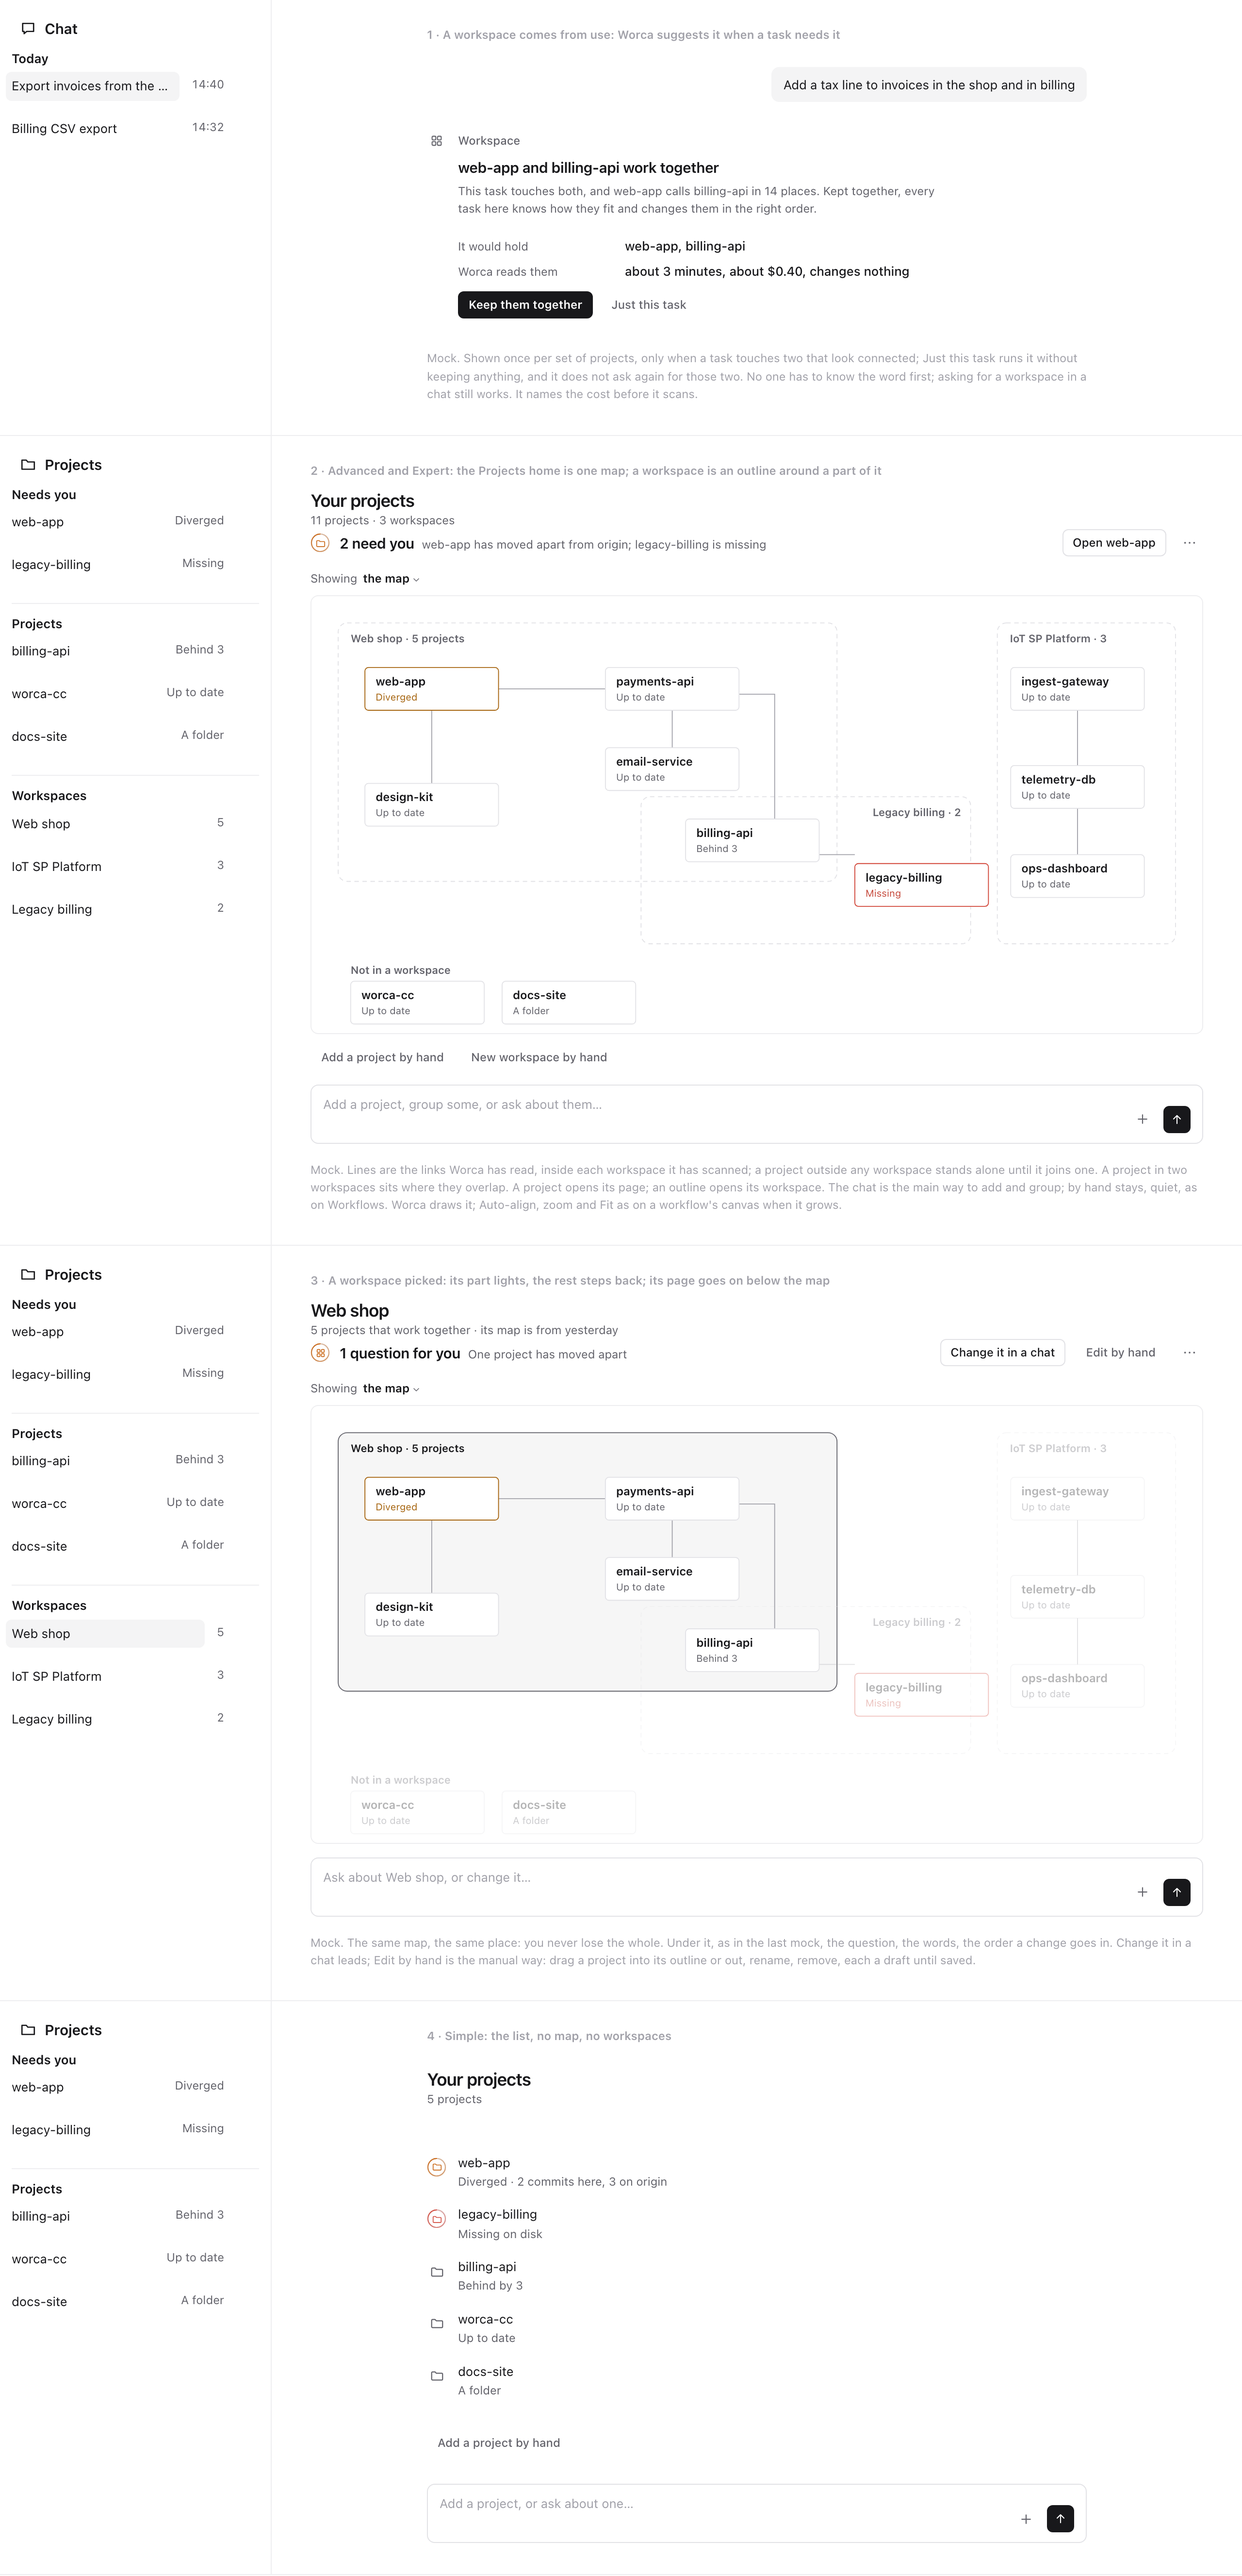
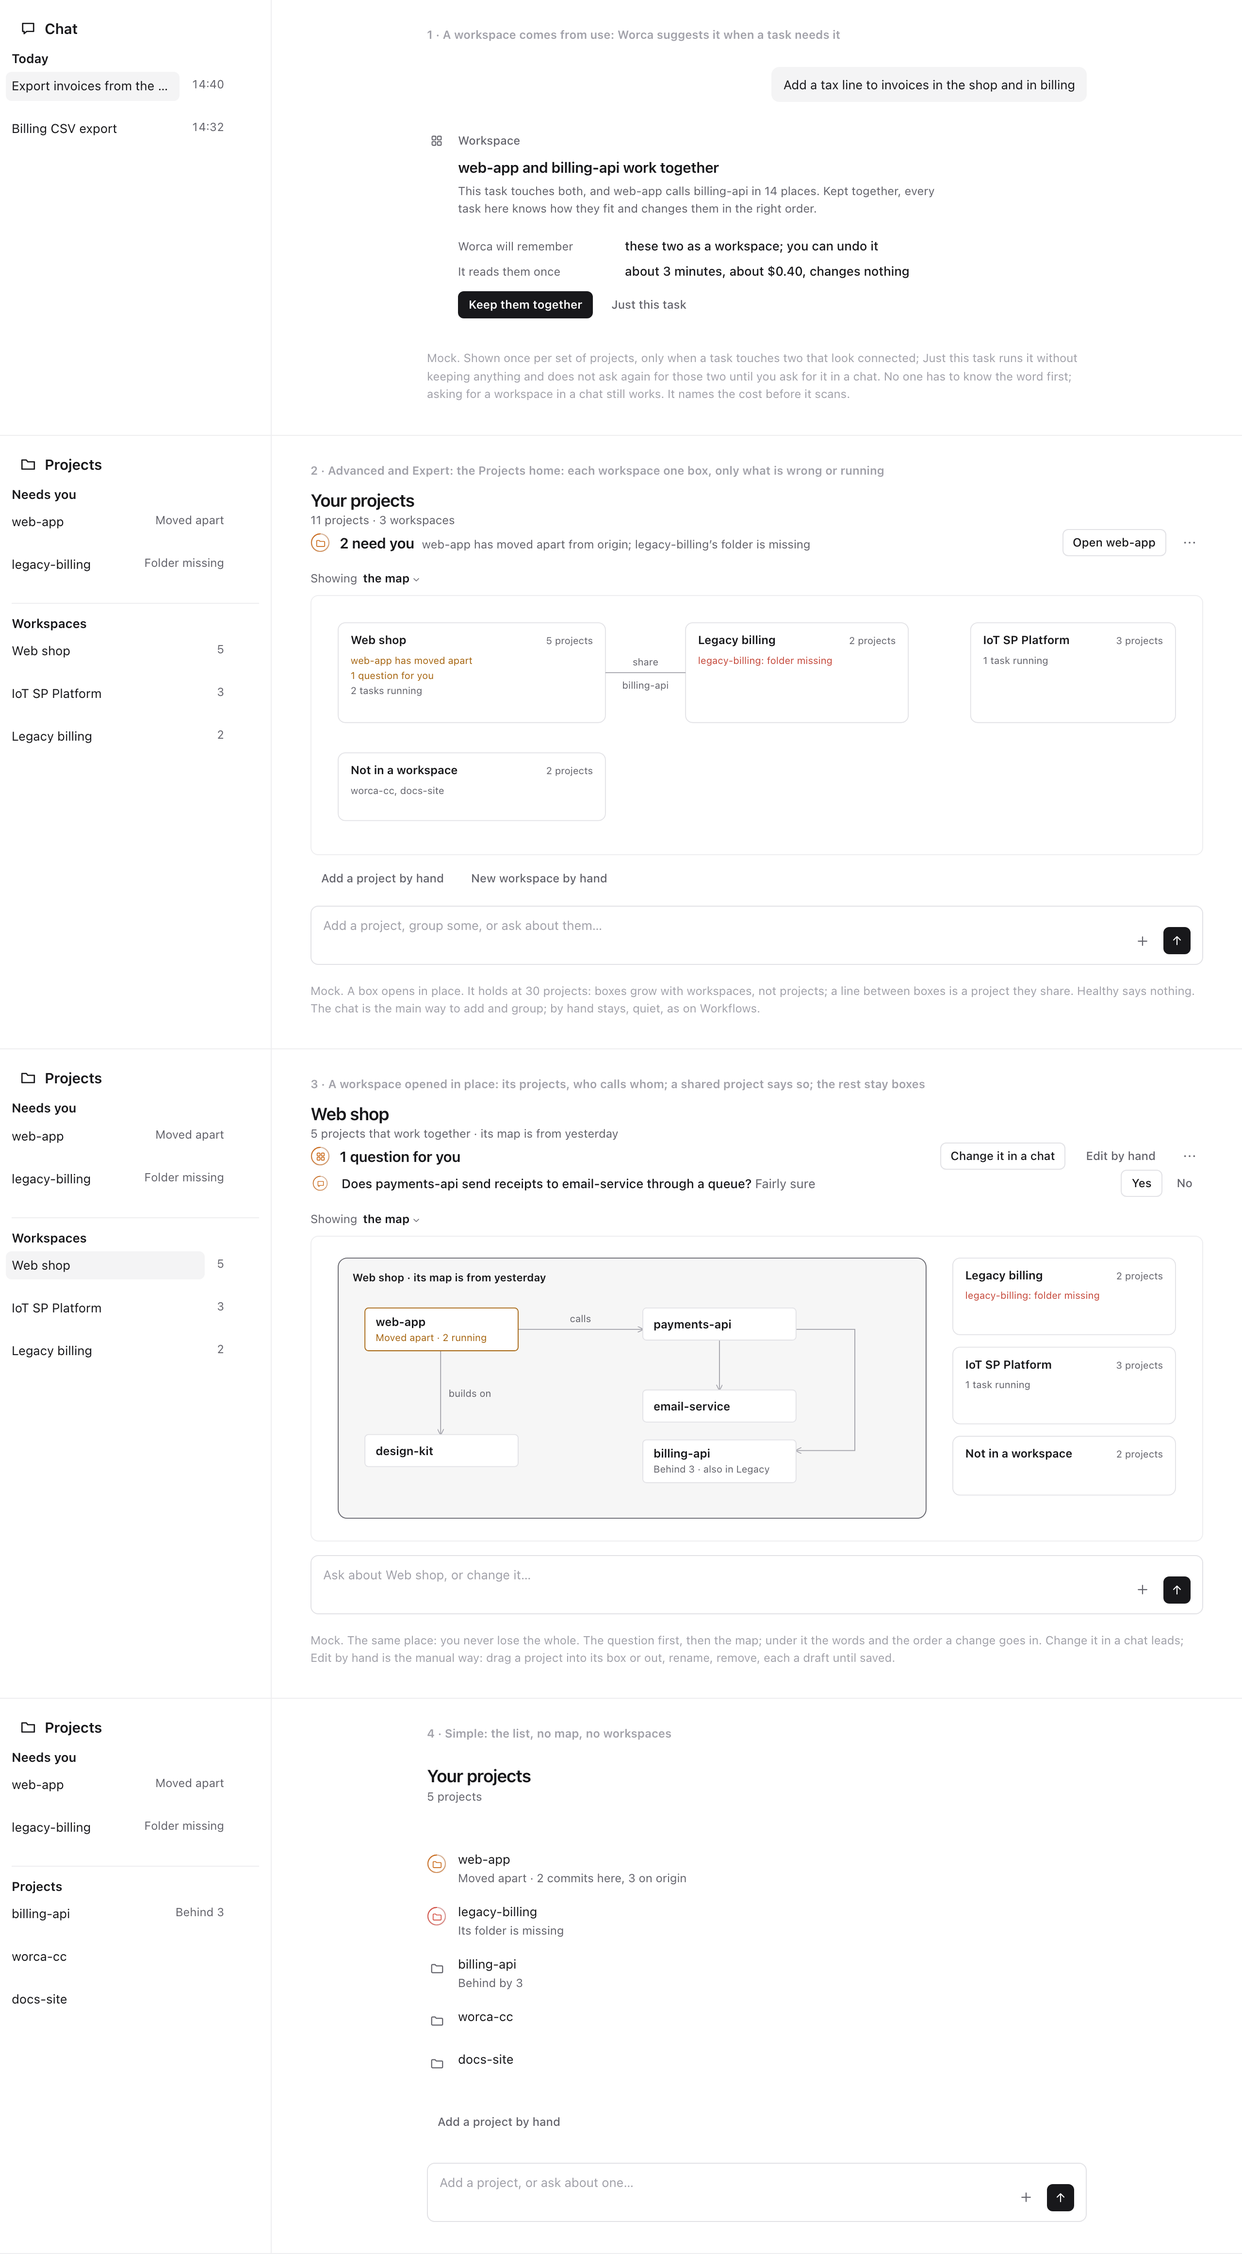
Wave 3: the Projects home after both personas: each workspace one box that opens in place, a shared project says so, healthy says nothing; plainer status words

diff --git a/plans/rail/mocks/wave-3/scope-2.html b/plans/rail/mocks/wave-3/scope-2.html
@@ -28,7 +28,7 @@
   .w{fill:none;stroke:var(--ink-3);}
   .o{fill:none;stroke:var(--line-2);stroke-dasharray:5 4;} .on{fill:color-mix(in srgb,var(--ink) 4%,transparent);stroke:var(--ink-2);stroke-dasharray:none;}
   .ol{font-size:12px;font-weight:600;fill:var(--ink-2)!important;} .ol.pick{fill:var(--ink)!important;}
-  .dim{opacity:.32;}
+  .on-closed{stroke-dasharray:none;} .l-t{font-size:11px;fill:var(--ink-2)!important;}
 </style></head>
 <body><div id="m"></div>
 <script src="../../prototype/components.js"></script>
@@ -37,36 +37,39 @@
   const pj = (tone) => R.kindMark({ kind: 'project', tone: tone || 'idle' }), ws = (tone) => R.kindMark({ kind: 'workspace', tone: tone || 'idle' });
   const row = (title, mark, end, cur = false) => R.listRow({ title, mark, endText: end, open: { 'data-x': title }, current: cur });
   const bar = (cur, adv = true) => `<h1>${R.icon('nav-projects', 18)} Projects</h1>${R.list({ groups: [
-    { title: 'Needs you', rows: [row('web-app', pj('ask'), 'Diverged'), row('legacy-billing', pj('fail'), 'Missing')] },
-    { title: 'Projects', rows: [row('billing-api', pj(), 'Behind 3'), row('worca-cc', pj(), 'Up to date'), row('docs-site', pj(), 'A folder')] },
-    ...(adv ? [{ title: 'Workspaces', rows: [row('Web shop', ws(), '5', cur === 'web'), row('IoT SP Platform', ws(), '3'), row('Legacy billing', ws(), '2')] }] : [])] })}`;
+    { title: 'Needs you', rows: [row('web-app', pj('ask'), 'Moved apart'), row('legacy-billing', pj('fail'), 'Folder missing')] },
+    ...(adv ? [{ title: 'Workspaces', rows: [row('Web shop', ws(), '5', cur === 'web'), row('IoT SP Platform', ws(), '3'), row('Legacy billing', ws(), '2')] }, { title: 'All projects · 11', rows: [] }] : [{ title: 'Projects', rows: [row('billing-api', pj(), 'Behind 3'), row('worca-cc', pj(), ''), row('docs-site', pj(), '')] }])] })}`;
   const chatBar = `<h1>${R.icon('nav-chat', 18)} Chat</h1>${R.list({ groups: [{ title: 'Today', rows: [row('Export invoices from the shop', R.kindMark({ kind: 'chat' }), '14:40', true), row('Billing CSV export', R.kindMark({ kind: 'chat', tone: 'ask' }), '14:32')] }] })}`;
   const pick = (t) => R.sentencePicker({ id: t, text: t, items: [], chevron: R.icon('chevron', 10) });
   const you = (t) => `<div style="display:flex;justify-content:flex-end;margin:0 0 14px"><div style="background:var(--field);border-radius:var(--r-md);padding:8px 12px">${t}</div></div>`;
-  const suggest = R.changeProposal({ kind: 'Workspace', title: 'web-app and billing-api work together', why: 'This task touches both, and web-app calls billing-api in 14 places. Kept together, every task here knows how they fit and changes them in the right order.', rows: [{ name: 'It would hold', before: '', after: 'web-app, billing-api' }, { name: 'Worca reads them', before: '', after: 'about 3 minutes, about $0.40, changes nothing' }], actions: [{ label: 'Keep them together', kind: 'primary' }, { label: 'Just this task', kind: 'quiet' }] });
+  const suggest = R.changeProposal({ kind: 'Workspace', title: 'web-app and billing-api work together', why: 'This task touches both, and web-app calls billing-api in 14 places. Kept together, every task here knows how they fit and changes them in the right order.', rows: [{ name: 'Worca will remember', before: '', after: 'these two as a workspace; you can undo it' }, { name: 'It reads them once', before: '', after: 'about 3 minutes, about $0.40, changes nothing' }], actions: [{ label: 'Keep them together', kind: 'primary' }, { label: 'Just this task', kind: 'quiet' }] });
   const f1 = `<div class="col convo-col" style="margin:0"><p class="cap">1 · A workspace comes from use: Worca suggests it when a task needs it</p>${you('Add a tax line to invoices in the shop and in billing')}${suggest}
-    <p class="note">Mock. Shown once per set of projects, only when a task touches two that look connected; Just this task runs it without keeping anything, and it does not ask again for those two. No one has to know the word first; asking for a workspace in a chat still works. It names the cost before it scans.</p></div>`;
-  const node = (x, y, t, s, tone = '', cls = '') => `<g class="${cls}"><rect class="n ${tone}" x="${x}" y="${y}" width="150" height="48" rx="4"/><text class="t" x="${x + 12}" y="${y + 20}">${t}</text><text class="s ${tone}" x="${x + 12}" y="${y + 37}">${s}</text></g>`;
-  const line = (d, cls = '') => `<path class="w ${cls}" d="${d}"/>`;
-  const outline = (x, y, w, h, name, on, cls = '') => `<rect class="o ${on ? 'on' : ''} ${cls}" x="${x}" y="${y}" width="${w}" height="${h}" rx="10"/><text class="ol ${on ? 'pick' : ''} ${cls}" x="${name.startsWith('Legacy') ? x + w - 110 : x + 14}" y="${y + 22}">${name}</text>`;
-  const mapOf = (pickWeb) => { const d = pickWeb ? 'dim' : '';
-    return `<div class="map"><svg viewBox="0 0 1000 490" role="img" aria-label="Your projects and how they fit together">
-      ${outline(30, 30, 560, 290, 'Web shop · 5 projects', pickWeb)}${outline(370, 225, 370, 165, 'Legacy billing · 2', false, d)}${outline(770, 30, 200, 360, 'IoT SP Platform · 3', false, d)}
-      ${line('M210 104H330')}${line('M405 128V170')}${line('M135 128V210')}${line('M480 110H520V250')}${line('M610 290H570', d)}${line('M860 128V190', d)}${line('M860 290V238', d)}
-      ${node(60, 80, 'web-app', 'Diverged', 'ask')}${node(330, 80, 'payments-api', 'Up to date')}${node(330, 170, 'email-service', 'Up to date')}${node(60, 210, 'design-kit', 'Up to date')}${node(420, 250, 'billing-api', 'Behind 3')}
-      ${node(610, 300, 'legacy-billing', 'Missing', 'fail', d)}${node(785, 80, 'ingest-gateway', 'Up to date', '', d)}${node(785, 190, 'telemetry-db', 'Up to date', '', d)}${node(785, 290, 'ops-dashboard', 'Up to date', '', d)}
-      <text class="ol ${d}" x="44" y="424">Not in a workspace</text>${node(44, 432, 'worca-cc', 'Up to date', '', d)}${node(214, 432, 'docs-site', 'A folder', '', d)}
-    </svg></div>`; };
+    <p class="note">Mock. Shown once per set of projects, only when a task touches two that look connected; Just this task runs it without keeping anything and does not ask again for those two until you ask for it in a chat. No one has to know the word first; asking for a workspace in a chat still works. It names the cost before it scans.</p></div>`;
+  const node = (x, y, t, st = '', tone = '') => `<g><rect class="n ${tone}" x="${x}" y="${y}" width="172" height="${st ? 48 : 36}" rx="4"/><text class="t" x="${x + 12}" y="${y + (st ? 20 : 23)}">${t}</text>${st ? `<text class="s ${tone}" x="${x + 12}" y="${y + 37}">${st}</text>` : ''}</g>`;
+  const box = (x, y, w, h, name, count, lines = []) => `<g><rect class="o on-closed" x="${x}" y="${y}" width="${w}" height="${h}" rx="8"/><text class="t" x="${x + 14}" y="${y + 24}">${name}</text><text class="s" x="${x + w - 14}" y="${y + 24}" text-anchor="end">${count}</text>${lines.map(([t, c], k) => `<text class="s ${c || ''}" x="${x + 14}" y="${y + 46 + k * 17}">${t}</text>`).join('')}</g>`;
+  const arrow = '<defs><marker id="ar" viewBox="0 0 8 8" refX="7" refY="4" markerWidth="7" markerHeight="7" orient="auto"><path d="M0 0L8 4L0 8" fill="none" stroke="var(--ink-3)"/></marker></defs>';
+  const line = (d) => `<path class="w" d="${d}" marker-end="url(#ar)"/>`;
+  const home = `<div class="map"><svg viewBox="0 0 1000 290" role="img" aria-label="Your workspaces and how they connect">${arrow}
+    ${box(30, 30, 300, 112, 'Web shop', '5 projects', [['web-app has moved apart', 'ask'], ['1 question for you', 'ask'], ['2 tasks running']])}${box(420, 30, 250, 112, 'Legacy billing', '2 projects', [['legacy-billing: folder missing', 'fail']])}${box(740, 30, 230, 112, 'IoT SP Platform', '3 projects', [['1 task running']])}
+    <path class="w" d="M330 86H420"/><text class="s" x="375" y="78" text-anchor="middle">share</text><text class="s" x="375" y="104" text-anchor="middle">billing-api</text>
+    ${box(30, 176, 300, 76, 'Not in a workspace', '2 projects', [['worca-cc, docs-site']])}
+  </svg></div>`;
+  const open = `<div class="map"><svg viewBox="0 0 1000 340" role="img" aria-label="Web shop, open">${arrow}
+    <rect class="o on" x="30" y="24" width="660" height="292" rx="10"/><text class="ol pick" x="46" y="50">Web shop · its map is from yesterday</text>
+    ${line('M232 104H372')}<text class="l-t" x="302" y="96" text-anchor="middle">calls</text>${line('M458 116V172')}${line('M145 128V222')}<text class="l-t" x="154" y="180">builds on</text>${line('M544 104H610V240H544')}
+    ${node(60, 80, 'web-app', 'Moved apart · 2 running', 'ask')}${node(372, 80, 'payments-api')}${node(372, 172, 'email-service')}${node(60, 222, 'design-kit')}${node(372, 228, 'billing-api', 'Behind 3 · also in Legacy')}
+    ${box(720, 24, 250, 86, 'Legacy billing', '2 projects', [['legacy-billing: folder missing', 'fail']])}${box(720, 124, 250, 86, 'IoT SP Platform', '3 projects', [['1 task running']])}${box(720, 224, 250, 66, 'Not in a workspace', '2 projects')}
+  </svg></div>`;
   // chat first: every page ends with the composer; the manual way is second and quiet, as on Workflows
   const dock = (PH) => `<div style="margin:14px 0 0">${R.composer({ value: '', placeholder: PH, sentence: '', tools: R.button({ label: 'Add', kind: 'quiet', iconOnly: true, icon: R.icon('plus', 15) }), send: R.button({ label: 'Send', kind: 'primary', iconOnly: true, icon: R.icon('up', 14) }) })}</div>`;
   const hand = (...l) => `<div style="display:flex;gap:6px;margin:10px 0 0">${l.map((t) => R.button({ label: t, kind: 'quiet' })).join('')}</div>`;
   const more = R.moreMenu({ id: 'm', label: 'More', icon: R.icon('more', 16), open: false, items: [] });
-  const f2 = `<div class="wide"><p class="cap">2 · Advanced and Expert: the Projects home is one map; a workspace is an outline around a part of it</p>${R.placeHead({ title: 'Your projects', facts: '11 projects · 3 workspaces', mark: pj('ask'), word: '2 need you', why: 'web-app has moved apart from origin; legacy-billing is missing', action: R.button({ label: 'Open web-app' }), menu: more })}
-    <div class="sent">Showing ${pick('the map')}</div>${mapOf(false)}${hand('Add a project by hand', 'New workspace by hand')}${dock('Add a project, group some, or ask about them…')}
-    <p class="note">Mock. Lines are the links Worca has read, inside each workspace it has scanned; a project outside any workspace stands alone until it joins one. A project in two workspaces sits where they overlap. A project opens its page; an outline opens its workspace. The chat is the main way to add and group; by hand stays, quiet, as on Workflows. Worca draws it; Auto-align, zoom and Fit as on a workflow's canvas when it grows.</p></div>`;
-  const f3 = `<div class="wide"><p class="cap">3 · A workspace picked: its part lights, the rest steps back; its page goes on below the map</p>${R.placeHead({ title: 'Web shop', facts: '5 projects that work together · its map is from yesterday', mark: ws('act'), word: '1 question for you', why: 'One project has moved apart', action: R.button({ label: 'Change it in a chat' }) + R.button({ label: 'Edit by hand', kind: 'quiet' }), menu: more })}<div class="sent">Showing ${pick('the map')}</div>${mapOf(true)}${dock('Ask about Web shop, or change it…')}
-    <p class="note">Mock. The same map, the same place: you never lose the whole. Under it, as in the last mock, the question, the words, the order a change goes in. Change it in a chat leads; Edit by hand is the manual way: drag a project into its outline or out, rename, remove, each a draft until saved.</p></div>`;
-  const rowsS = [['web-app', pj('ask'), 'Diverged · 2 commits here, 3 on origin'], ['legacy-billing', pj('fail'), 'Missing on disk'], ['billing-api', pj(), 'Behind by 3'], ['worca-cc', pj(), 'Up to date'], ['docs-site', pj(), 'A folder']];
+  const f2 = `<div class="wide"><p class="cap">2 · Advanced and Expert: the Projects home: each workspace one box, only what is wrong or running</p>${R.placeHead({ title: 'Your projects', facts: '11 projects · 3 workspaces', mark: pj('ask'), word: '2 need you', why: 'web-app has moved apart from origin; legacy-billing’s folder is missing', action: R.button({ label: 'Open web-app' }), menu: more })}
+    <div class="sent">Showing ${pick('the map')}</div>${home}${hand('Add a project by hand', 'New workspace by hand')}${dock('Add a project, group some, or ask about them…')}
+    <p class="note">Mock. A box opens in place. It holds at 30 projects: boxes grow with workspaces, not projects; a line between boxes is a project they share. Healthy says nothing. The chat is the main way to add and group; by hand stays, quiet, as on Workflows. </p></div>`;
+  const f3 = `<div class="wide"><p class="cap">3 · A workspace opened in place: its projects, who calls whom; a shared project says so; the rest stay boxes</p>${R.placeHead({ title: 'Web shop', facts: '5 projects that work together · its map is from yesterday', mark: ws('act'), word: '1 question for you', why: '', action: R.button({ label: 'Change it in a chat' }) + R.button({ label: 'Edit by hand', kind: 'quiet' }), menu: more })}${R.turnRow({ mark: R.kindMark({ kind: 'chat', tone: 'ask', size: 16 }), text: '<b>Does payments-api send receipts to email-service through a queue?</b> Fairly sure', end: R.button({ label: 'Yes' }) + R.button({ label: 'No', kind: 'quiet' }) })}<div class="sent">Showing ${pick('the map')}</div>${open}${dock('Ask about Web shop, or change it…')}
+    <p class="note">Mock. The same place: you never lose the whole. The question first, then the map; under it the words and the order a change goes in. Change it in a chat leads; Edit by hand is the manual way: drag a project into its box or out, rename, remove, each a draft until saved.</p></div>`;
+  const rowsS = [['web-app', pj('ask'), 'Moved apart · 2 commits here, 3 on origin'], ['legacy-billing', pj('fail'), 'Its folder is missing'], ['billing-api', pj(), 'Behind by 3'], ['worca-cc', pj(), ''], ['docs-site', pj(), '']];
   const f4 = `<div class="col convo-col" style="margin:0"><p class="cap">4 · Simple: the list, no map, no workspaces</p>${R.placeHead({ title: 'Your projects', facts: '5 projects' })}<div class="sp" style="height:10px"></div>${R.list({ groups: [{ rows: rowsS.map(([t, m, s]) => R.listRow({ title: t, meta: s, mark: m, open: {} })) }] })}${hand('Add a project by hand')}${dock('Add a project, or ask about one…')}</div>`;
   const fr = (b, x) => `<div class="fr"><aside class="bar pz-app rail-page">${b}</aside><main class="main">${x}</main></div>`;
   document.getElementById('m').innerHTML = fr(chatBar, f1) + fr(bar(''), f2) + fr(bar('web'), f3) + fr(bar('', false), f4);

diff --git a/plans/rail/wave-3.md b/plans/rail/wave-3.md
@@ -337,3 +337,5 @@ Projects and Workspaces (Emil, 8 Nov): a workspace is organizational: a named se
 Two ideas mocked at Emil's yes (mocks/wave-3/scope-2): a workspace comes from use (Worca suggests it when a task touches projects that look connected); from Advanced the Projects home is one map, a workspace an outline around a part of it, a project in two where they overlap. Its limit: only links inside scanned workspaces are known. A project and a workspace read the same: needs you, how it stands, what is on it, settings.
 
 The concept (Emil, 8 Nov, in his words): all these features are embedded in the chat, and users keep the option to perform them manually, as is for the workflows. Chat first, manual second, for Workflows, agents, scripts, Projects, Workspaces and the like: a page ends with the composer, Change it in a chat leads, the manual way is there and quiet. Tasks and Schedules are different: their pages only reference what was dispatched, for legacy, and nothing can be created from them.
+
+Personas on the map (8 Nov; new user 8, 5, 5, 8; daily user 8, 5, 7, 8): overlapping outlines do not scale. The home is now each workspace one box (a count and only what is wrong or running, a line between boxes for a shared project); a box opens in place with arrows for who calls whom; a shared project says also in X; healthy says nothing. The bar from Advanced: Needs you, Workspaces, All projects folded.
